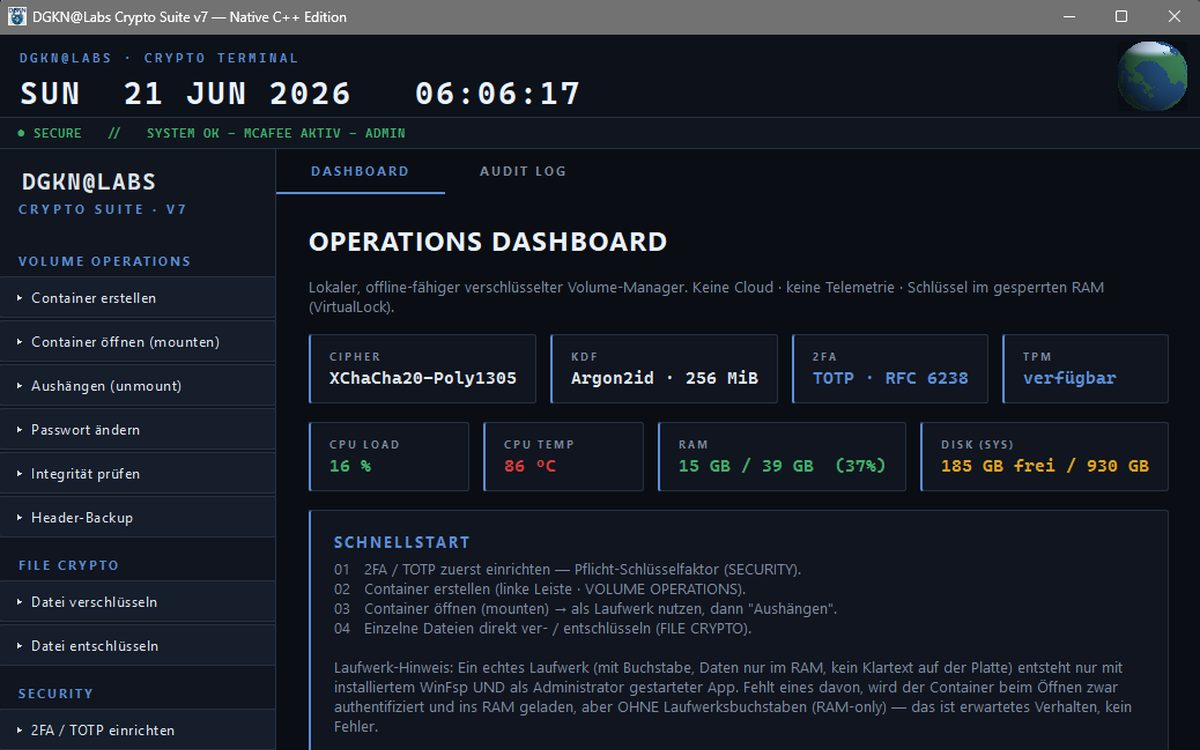
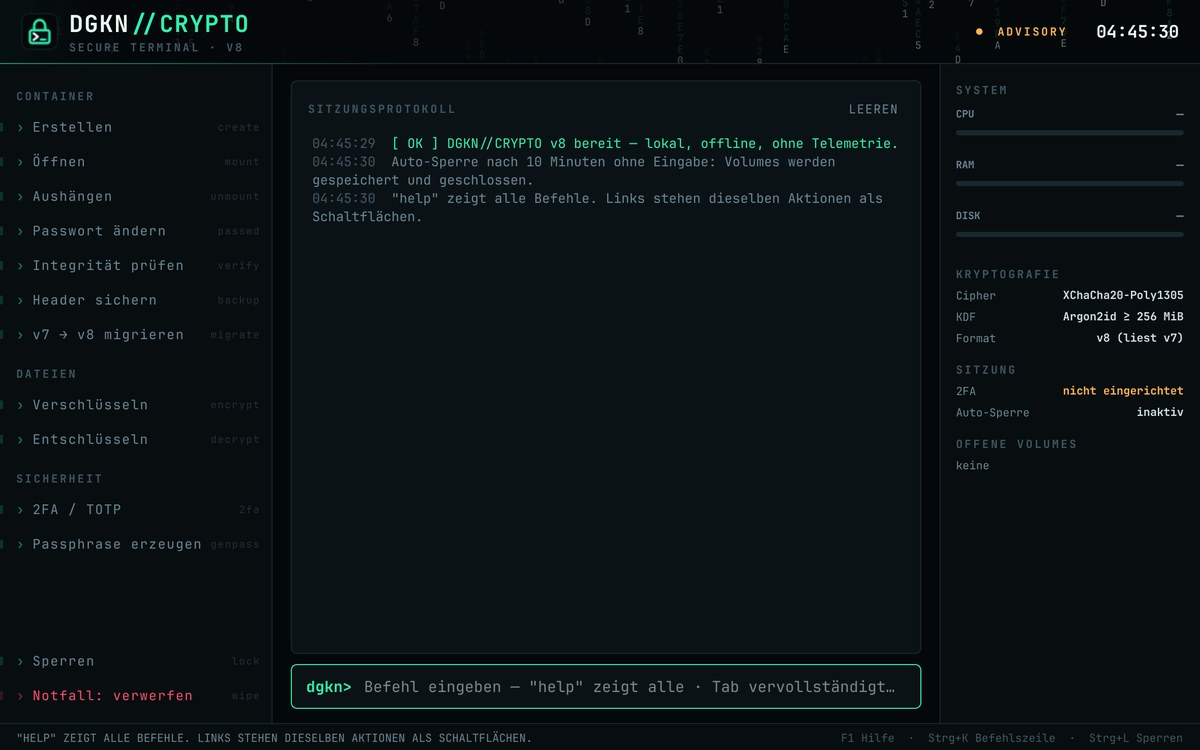
Crypto Suite: neuer Screenshot und Beschreibung (v8)
Claude-Session: https://claude.ai/code/session_01LabRvrSTYRA5RKXE4CPGKZ

diff --git a/README.md b/README.md
@@ -67,7 +67,7 @@ Mich interessiert, wie Technik funktioniert — und was sich daraus bauen lässt
 <tr>
 <td width="50%" valign="top">
 <a href="https://github.com/dogenc/dgknCryptoSuite"><img src="./assets/projects/cryptosuite.jpg" width="100%" alt="Crypto Suite – Screenshot" /></a>
-<p><a href="https://github.com/dogenc/dgknCryptoSuite"><b>Crypto Suite</b></a><br /><sub>Verschlüsselte Container für Windows.</sub></p>
+<p><a href="https://github.com/dogenc/dgknCryptoSuite"><b>Crypto Suite</b></a><br /><sub>Dateien und Container verschlüsseln – mit Terminal-Oberfläche.</sub></p>
 </td>
 <td width="50%" valign="top">
 <a href="https://github.com/dogenc/DGKN-Labs-Inspector"><img src="./assets/projects/inspector.jpg" width="100%" alt="Inspector – Screenshot" /></a>
@@ -169,7 +169,7 @@ Linux · Docker · Cloudflare · Git · GitHub
 |---|---|
 | eine Datei auf Auffälligkeiten untersuchen | [SENTINEL-F](https://github.com/dogenc/SENTINEL-F) |
 | lokale KI-Modelle besser verstehen | [GGUF Studio](https://github.com/dogenc/gguf-studio) |
-| verschlüsselte Container verwalten | [Crypto Suite](https://github.com/dogenc/dgknCryptoSuite) |
+| Dateien und Container verschlüsseln | [Crypto Suite](https://github.com/dogenc/dgknCryptoSuite) |
 | Körper, Zellen, Erde, Chemie oder das All in 3D erkunden | [CORPUS](https://github.com/dogenc/CORPUS-Anatomieatlas) · [CELLULA](https://github.com/dogenc/CELLULA) · [TERRA](https://github.com/dogenc/TERRA) · [ELEMENTA](https://github.com/dogenc/ELEMENTA) · [ASTRA](https://github.com/dogenc/ASTRA) |
 | Windows-Programme und Verbindungen prüfen | [Inspector](https://github.com/dogenc/DGKN-Labs-Inspector) |
 | Windows aufräumen oder Entwicklerpfade finden | [System Utility](https://github.com/dogenc/windows-system-utility) |
